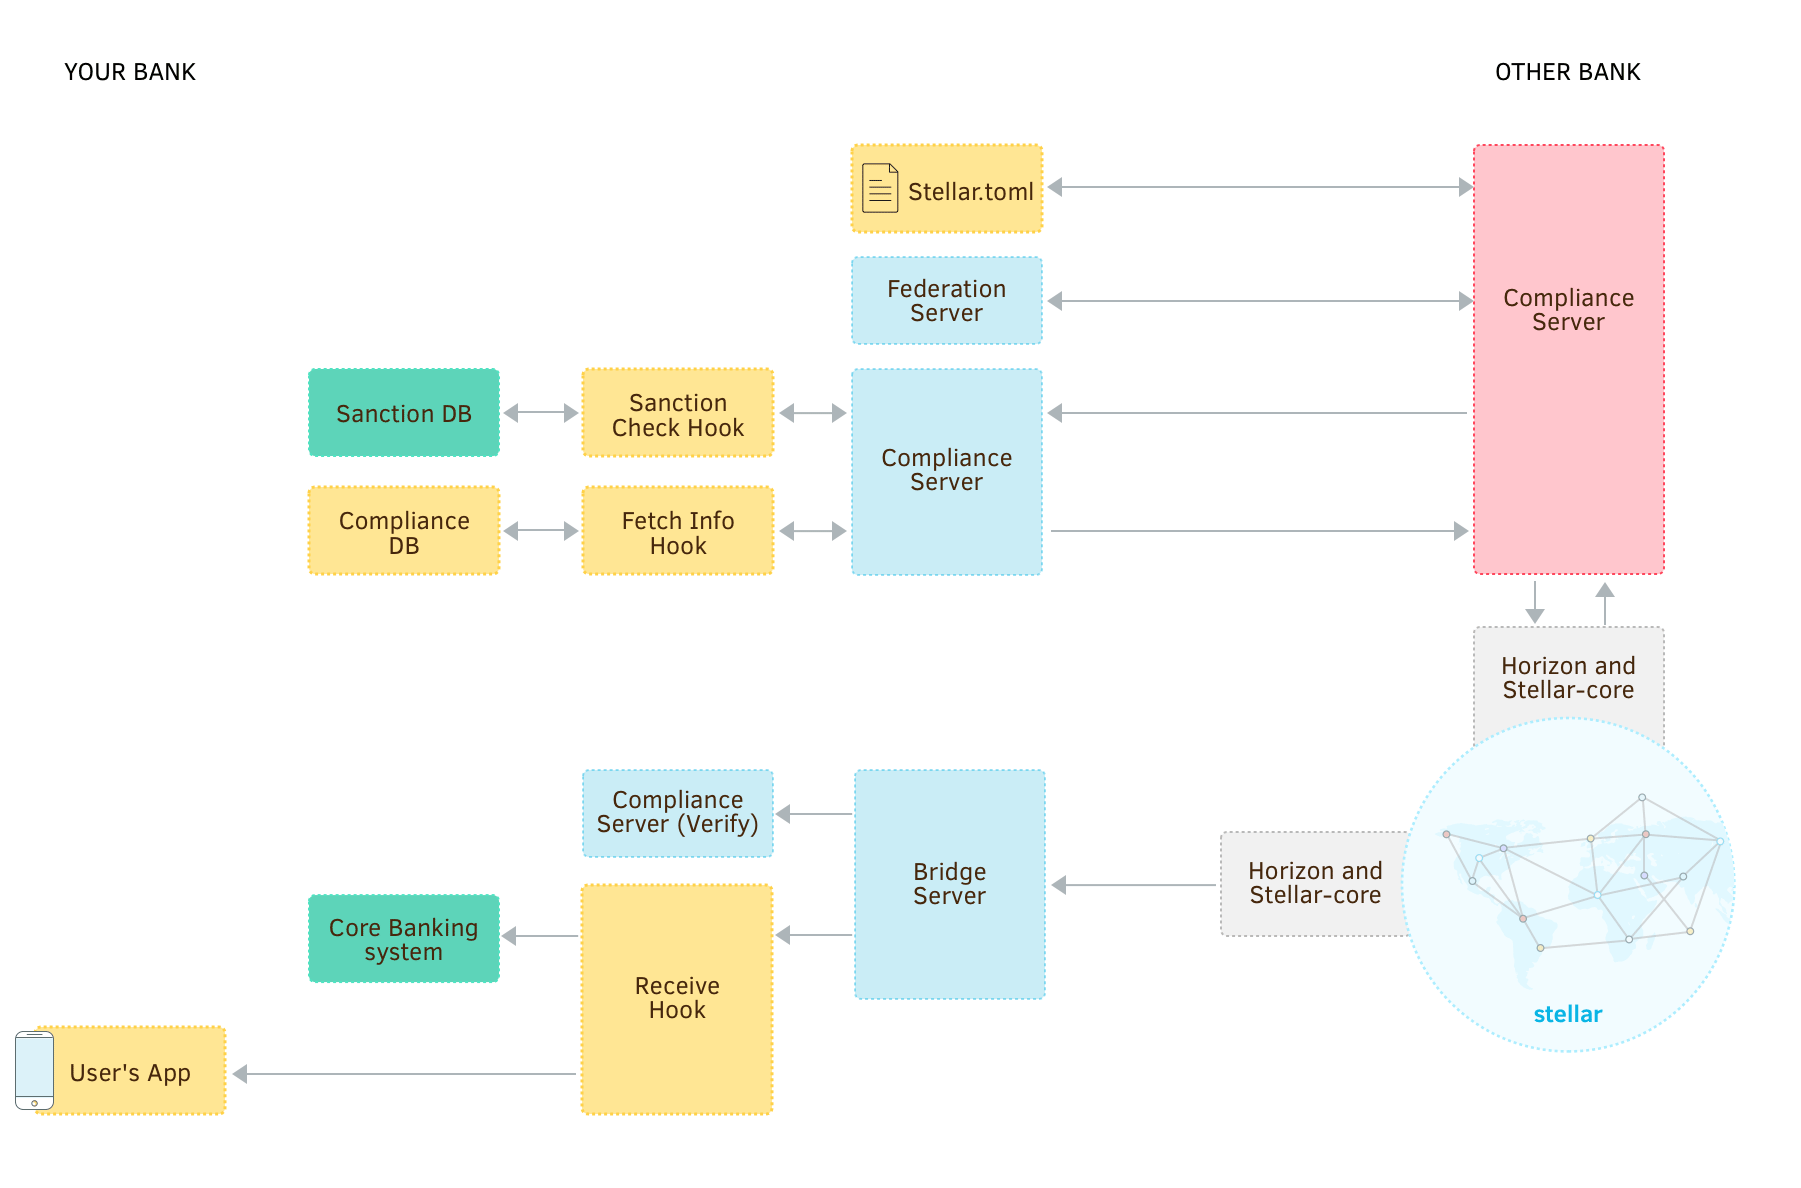
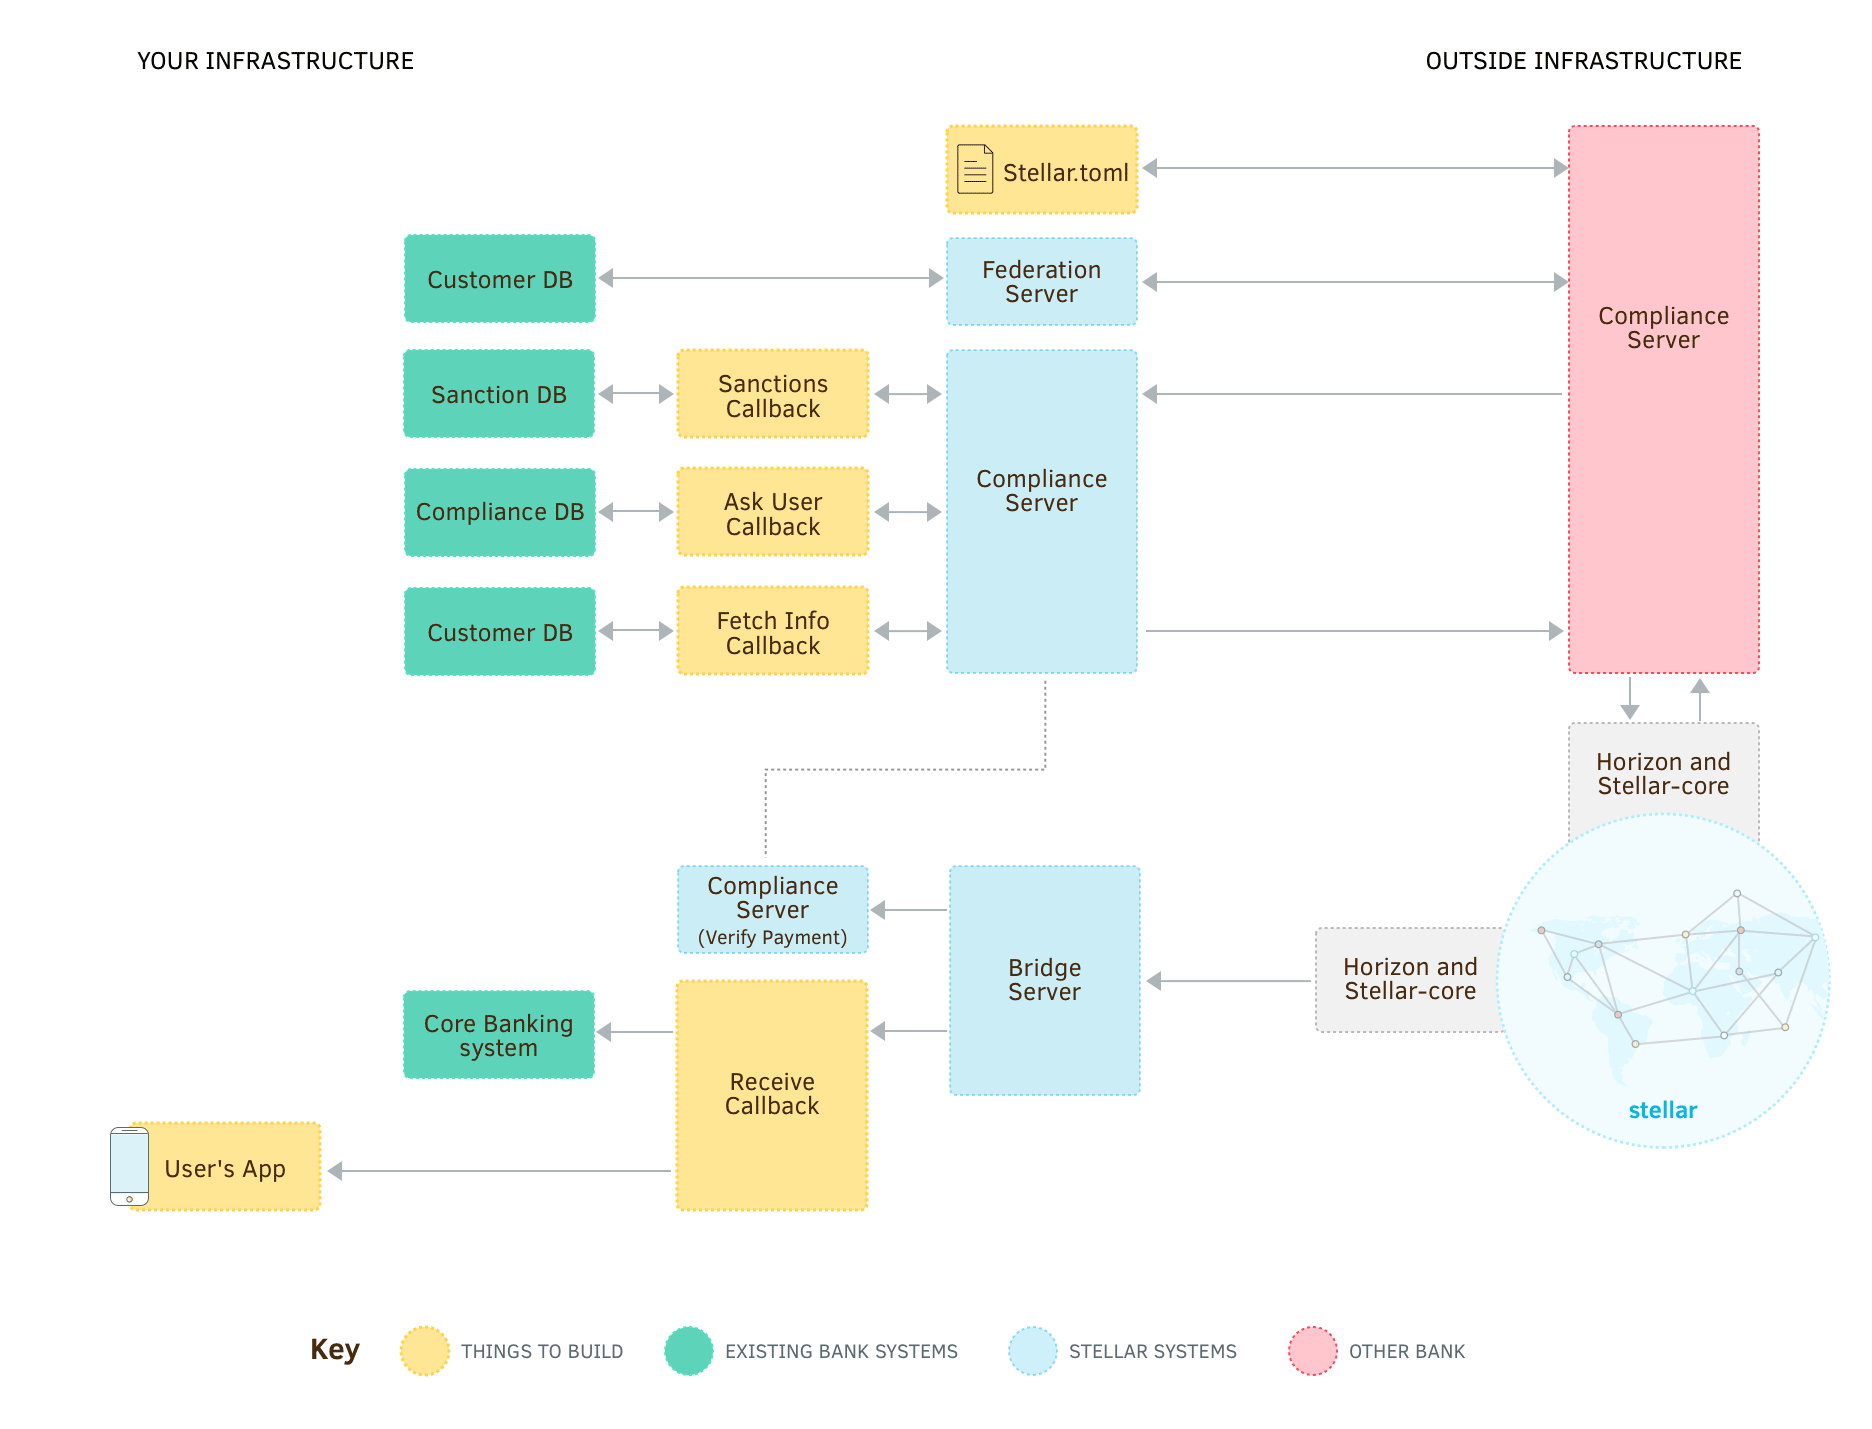
Expand anchor intro to describe overall flow

diff --git a/guides/anchor/readme.md b/guides/anchor/readme.md
@@ -46,3 +46,50 @@ There are two simple ways to account for your customers’ funds:
     Using a single account requires you to do additional bookkeeping, but means you have fewer keys to manage and more control over accounts. If you already have existing banking systems, this is the simplest way to integrate Stellar with them.
 
 You can also create your own variations on the above approaches. **For this guide, we’ll follow approach #2—using a single Stellar account to transact on behalf of your customers.**
+
+
+## Data Flow
+
+In order to act as an anchor, your infrastructure will need to:
+
+- Make payments.
+- Monitor a Stellar account and update customer accounts when payments are received.
+- Look up and respond to requests for federated addresses.
+- Comply with Anti-Money Laundering (AML) regulations.
+
+Stellar provides a prebuilt [federation server](https://github.com/stellar/go/tree/master/services/federation) and [regulatory compliance server](https://github.com/stellar/bridge-server/blob/master/readme_compliance.md) designed for you to install and integrate with your existing infrastructure. The [bridge server](https://github.com/stellar/bridge-server/blob/master/readme_bridge.md) coordinates them and simplifies interacting with the Stellar network. This guide demonstrates how to integrate them with your infrastructure, but you can also write your own customized versions.
+
+### Making Payments
+
+When using the above services, a complex payment using federation and compliance works as follows:
+
+![Diagram of sending a payment](assets/anchor-send-payment-compliance.png)
+
+1. A customer using your organization’s app or web site sends a payment using your services.
+2. Your internal services send a payment using the bridge server.
+3. The bridge server determines whether compliance checks are needed and forwards transaction information to the compliance server.
+4. The compliance server determines the receiving account ID by looking up the federation address.
+5. The compliance server contacts your internal services to get information about the customer sending the payment in order to provide it to the receiving organization’s compliance systems.
+6. If the result is successful, the bridge server creates a transaction, signs it, and sends it to the Stellar network.
+7. Once the transaction is confirmed on the network, the bridge server returns the result to your services, which should update your customer’s account.
+
+
+### Receiving Payments:
+
+When someone is sending a transaction to you, the flow is slightly different:
+
+![Diagram of receiving a payment](assets/anchor-receive-payment-compliance.png)
+
+1. The sender looks up the Stellar account ID to send the payment to based on your customer’s federated address from your federation server.
+2. The sender contacts your compliance server with information about the person sending the payment.
+3. Your compliance server contacts three services you implement:
+    1. A sanctions callback to determine whether the sender is permitted to pay your customer.
+    2. If the sender wants to check your customer’s information, a callback is used to determine whether you are willing to share your customer’s information.
+    3. The same callback used when sending a payment (above) is used to actually get your customer’s information.
+4. The sender submits the transaction to the Stellar network.
+5. The bridge server monitors the Stellar network for the transaction and sends it to you compliance server to verify that it was the same transaction you approved in step 3.1.
+6. The bridge server contacts a service you implement to notify you about the transaction. You can use this step to update your customer’s account balances.
+
+**While these steps can seem complicated, Stellar’s bridge, federation, and compliance services do most of the work.** You only need to implement four callbacks and create a `stellar.toml` file where others can find the URL of your services.
+
+In the rest of this guide, we’ll walk through setting up each part of this infrastructure step by step.
